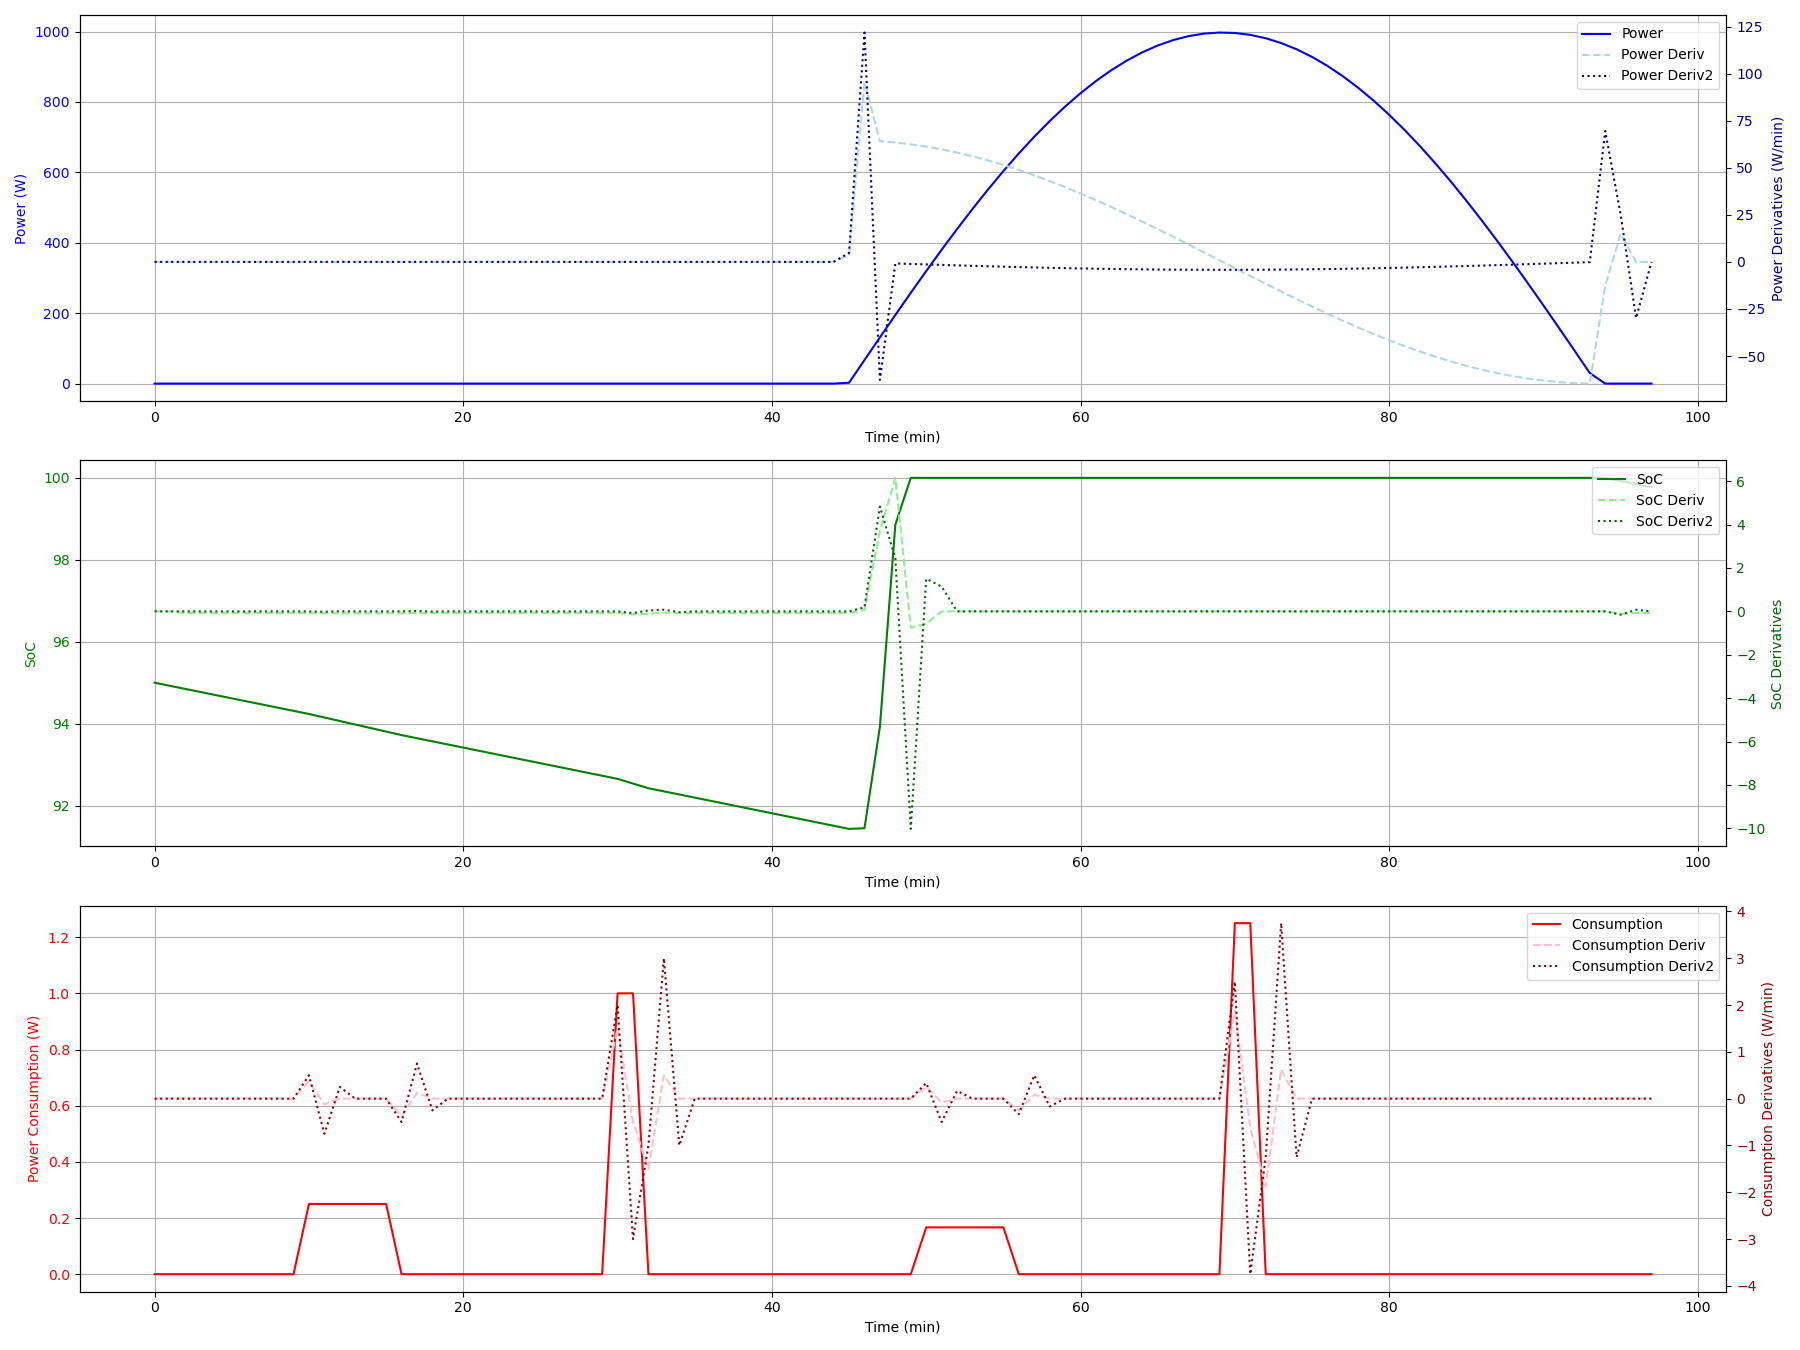
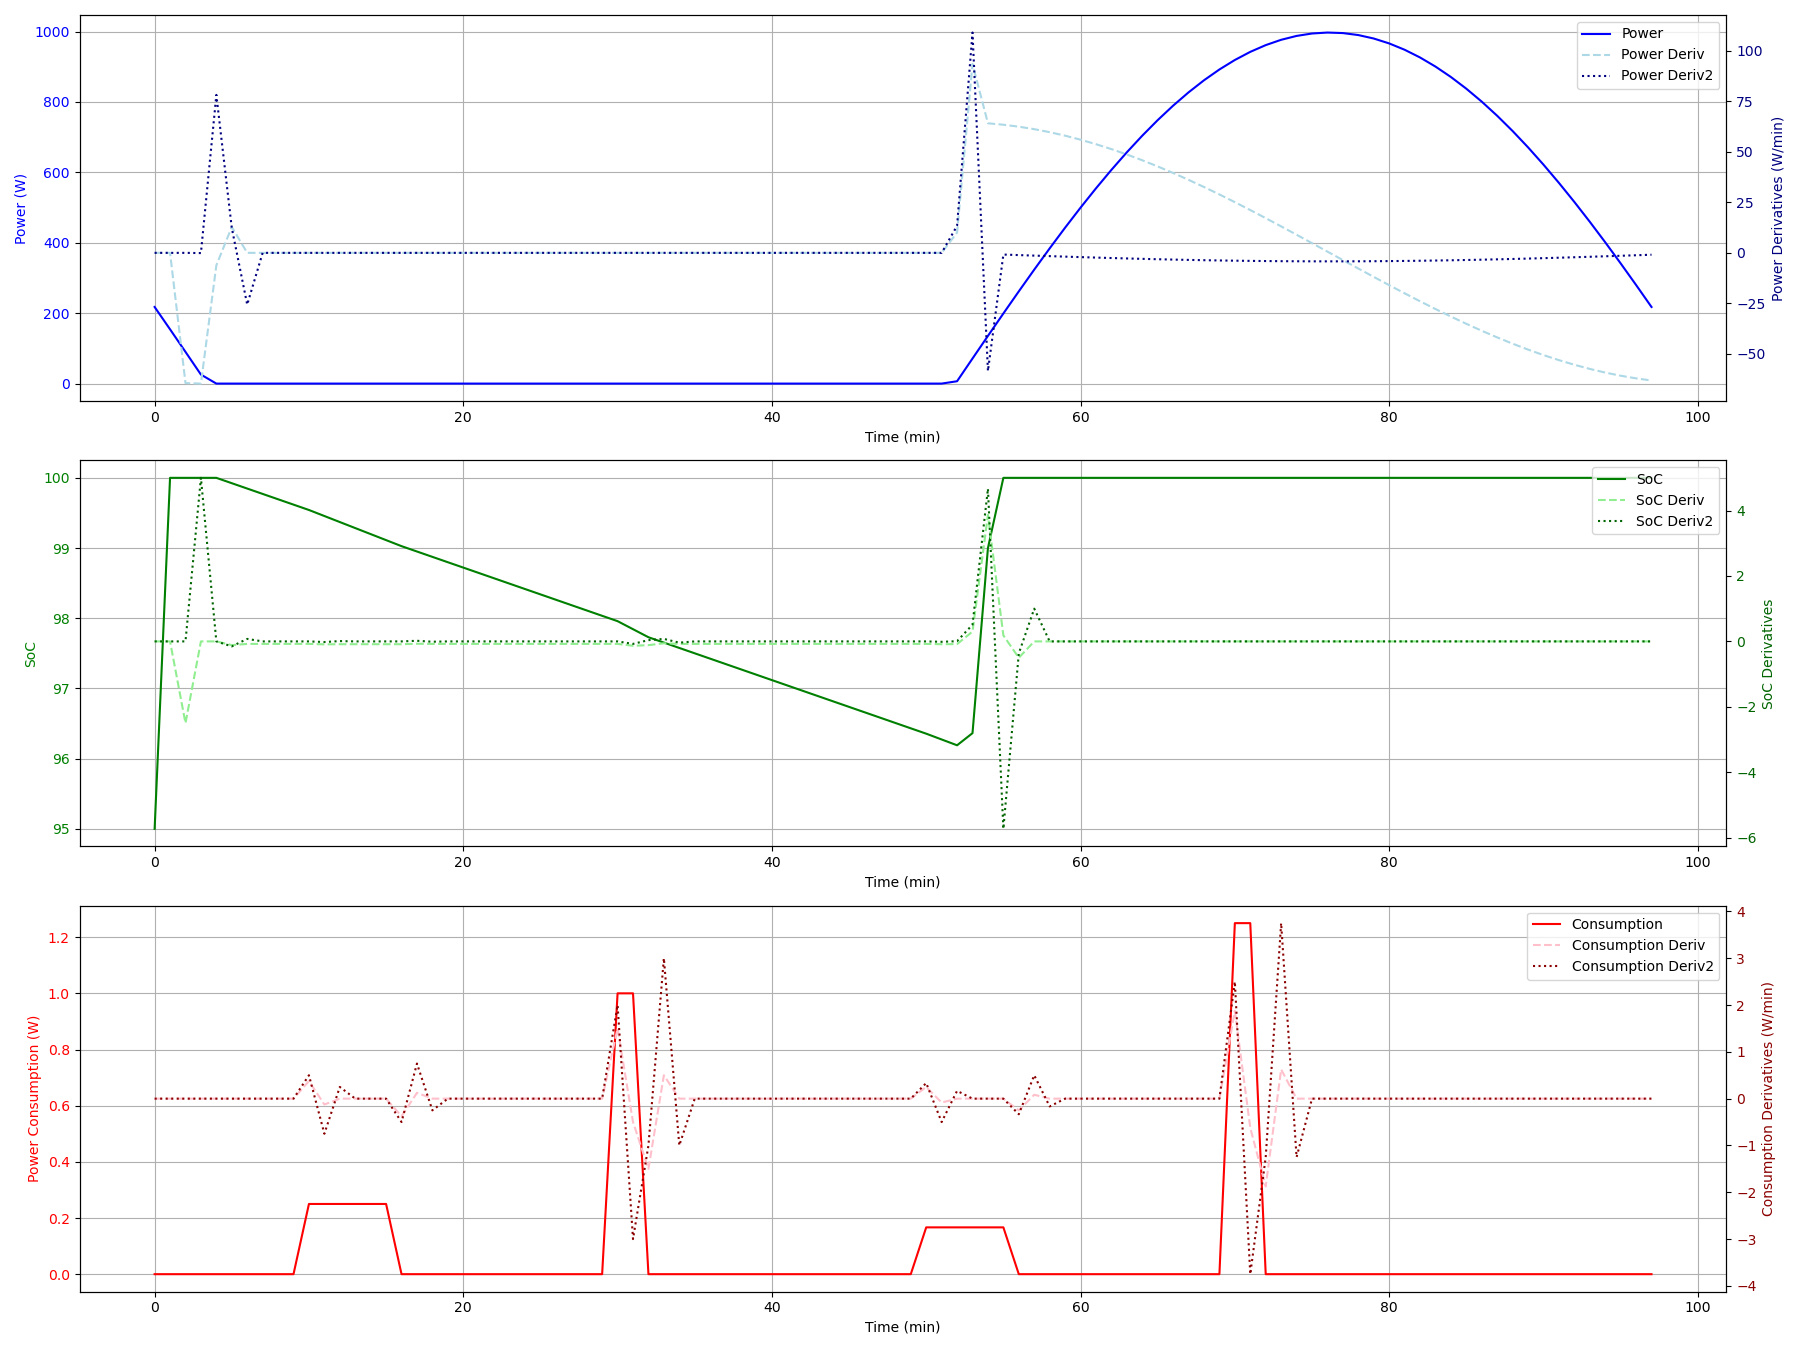
Co-authored-by: Dorohedoro1508 <Dorohedoro1508@users.noreply.github.com>

diff --git a/08-progress_05_07_2024/simulation-function/simulation_function.py b/08-progress_05_07_2024/simulation-function/simulation_function.py
@@ -37,29 +37,33 @@ DURATION_OF_ORBIT = 94.6  # Duración de una órbita en minutos
 # ## Dataframe
 # - TaskID
 # - Potencia
-# - StartTime
+# - Start Time
+# - Duration
+# - Transmission Priority
+# - Execution Priority
 
 # In[3]:
 
 
-'''TasksDf = pd.DataFrame({
-    'TaskID': [1, 2, 3, 4],
-    'Power': [1.5, 2.0, 1.0, 2.5],
-    'StartTime': [10, 30, 50, 70],
-    'Duration': [5, 1, 5, 1],
-    'PriorityTransmission': [0.2, 1, 0.4, 0.3],
-    'PriorityExecution': [0.2, 1, 0.1, 0.9]
-})'''
-
 def load_tasks_from_csv(filepath):
     try:
-        # Asume que el delimitador es una coma, y especifica los nombres de las columnas si es necesario
-        TasksDf = pd.read_csv(filepath, delimiter=',', names=['TaskID', 'Power', 'StartTime', 'Duration', 'PriorityTransmission', 'PriorityExecution'], header=None)
-        print("Tareas cargadas correctamente.")
-        return TasksDf
+        # Lee el archivo CSV y carga sus datos en un DataFrame
+        tasks_df = pd.read_csv("tareas.csv")
+
+        # Muestra el contenido del DataFrame
+        print("Contenido del DataFrame:")
+        print(tasks_df)
+
+        return tasks_df
     except Exception as e:
-        print(f"Error al cargar las tareas: {e}")
+        print(f"Error al cargar las tareas desde el archivo CSV: {e}")
         return pd.DataFrame()  # Retorna un DataFrame vacío en caso de error
+
+# Ruta del archivo CSV
+archivo_csv = "08-progress_05_07_2024/simulation-function/tareas.csv"  # Reemplaza "ruta/del/archivo.csv" con la ruta real de tu archivo
+
+# Llama a la función para cargar el archivo CSV en un DataFrame
+TasksDf = load_tasks_from_csv(archivo_csv)
 
 
 # ## dispersion σ
@@ -90,6 +94,10 @@ def g(k):
 
 # ## Definimos la función de recompensa
 
+# \begin{equation*}
+#     \xi _j = S_jP_je^-{\left(\frac{(t_{j}^{E})-t_{j}^{R}}{\sigma}\right)^2}((P_j^D)(d_j)({g(k)))}
+#   \end{equation*}
+
 # In[6]:
 
 
@@ -102,6 +110,10 @@ def task_reward(task, t_required, t_actual, sigma, d, k):
 
 
 # ## Definimos la función de recompensa total
+
+# \begin{equation*}
+# \mathcal{\xi} = \sum_{j=1}^{J} \mathcal{\xi}_j + \frac{\alpha}{N} \sum_{i=1}^{N} \left( \frac{E_i - E_L}{E_{max} - E_L} \right)
+# \end{equation*}
 
 # In[7]:
 
@@ -122,7 +134,7 @@ def available_power(t, phase, k, efficiency, pt_max_panel):
     return max(pt_max_panel * cos(2 * pi * t / TFinal + phase) * efficiency * k, 0)
 
 
-# ### Define la Ejecucuión de tareas
+# ### Define la ejecución de tareas
 
 # In[9]:
 
@@ -176,7 +188,7 @@ def is_task_running(times, task_active):
             print(f"At minute {t}, no task is running.")
 
 
-# ### Administración del SoC
+# ### Administración del estado de carga (SoC)
 
 # In[11]:
 
@@ -207,7 +219,7 @@ def calculate_derivatives(data, dt):
     return d1, d2
 
 
-# ### Muestreo de parametros
+# ### Muestreo de parámetros
 # 
 
 # In[13]:
@@ -246,7 +258,7 @@ def sample_parameters(n):
 # Esto generará una lista de 10 tuplas, cada una con valores de 'k' y 'eff' muestreados.
 
 
-# ### Aniliza los rangos de tiempo en el Soc
+# ### Aniliza los rangos de tiempo en el estado de carga (SoC)
 # 
 
 # In[14]:
@@ -331,7 +343,7 @@ def evaluate_performance(time_in_ranges):
 # print(performance)
 
 
-# ### Imprime el historico
+# ### Imprime el histórico
 
 # In[16]:
 
@@ -341,7 +353,7 @@ def print_historical_task_status(times, task_status):
         print(f"At minute {time}: Historical Task Status = {status}")
 
 
-# In[19]:
+# In[17]:
 
 
 # Se genera un array de tiempos desde TInitial hasta TFinal con un paso de Dt
@@ -389,7 +401,7 @@ Cálculo de derivadas: Las funciones calculate_derivatives calculan las primeras
 # ### Graficación de los datos
 # 
 
-# In[ ]:
+# In[18]:
 
 
 plt.figure(figsize=(18, 13.5))
@@ -443,7 +455,7 @@ plt.show()
 
 # ### Parte Final
 
-# In[ ]:
+# In[19]:
 
 
 # Analiza el tiempo que el sistema ha permanecido en diferentes rangos de estado de carga (SoC)
@@ -488,7 +500,7 @@ print("Total Reward:", Z)
 
 # ### Ruta al archivo CSV con las tareas
 
-# In[ ]:
+# In[20]:
 
 
 PATH_TO_CSV = 'tareas.csv'  # Ruta al archivo CSV con las tareas
@@ -497,7 +509,7 @@ PATH_TO_CSV = 'tareas.csv'  # Ruta al archivo CSV con las tareas
 # ### Función para cargar tareas desde un archivo CSV
 # 
 
-# In[ ]:
+# In[21]:
 
 
 def load_tasks_from_csv(filepath):
@@ -514,7 +526,7 @@ def load_tasks_from_csv(filepath):
 # ### Función para simular una orbita
 # ### espera un segundo
 
-# In[ ]:
+# In[22]:
 
 
 # Función para simular una órbita
@@ -528,7 +540,7 @@ def simulate_orbit(start_time, tasks_df):
     return end_time
 
 
-# In[ ]:
+# In[23]:
 
 
 # Función principal del simulador
@@ -548,7 +560,7 @@ def main_simulation_loop():
         time.sleep(5)  # Pausa antes de iniciar la siguiente órbita
 
 
-# In[ ]:
+# In[24]:
 
 
 # Ejecutar el simulador
